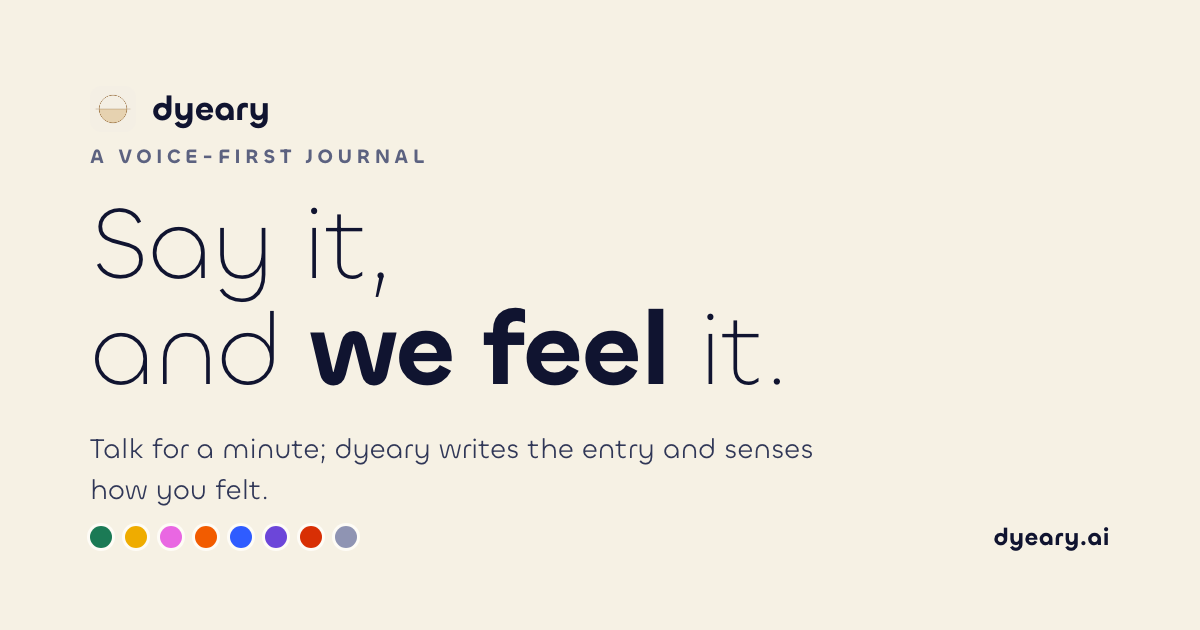
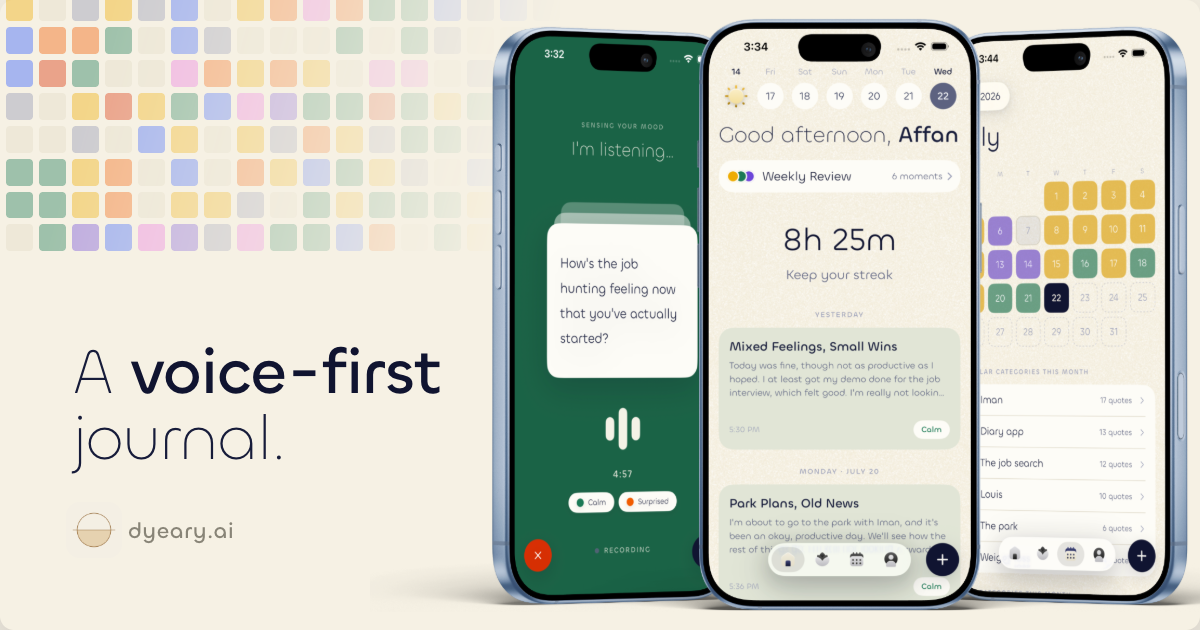
feat(site): new social share card — 3-phone product hero
Replace the text-only OG image with the redesigned Link Preview card
(year-in-feeling mood grid, "A voice-first journal.", three app screens,
dyeary.ai). Rendered at 1200x630 from the Claude Design project and
flattened onto --paper1 so the rounded corners don't render as notches
on social clients. Cache-bust og:image/twitter:image to ?v=2 and refresh
the alt text; og.source.html now documents the design-project source.

Claude-Session: https://claude.ai/code/session_01GrdvFf1rZhDVSoXyo1VgjL

diff --git a/og.source.html b/og.source.html
@@ -1,69 +1,35 @@
 <!doctype html>
-<html>
-<head>
-<meta charset="utf-8">
-<style>
-  @font-face {
-    font-family: "Chillax";
-    src: url("assets/Chillax-Variable.ttf") format("truetype");
-    font-weight: 200 700; font-style: normal; font-display: block;
-  }
-  :root {
-    --paper1:#F6F1E4; --paper0:#FEFCF6; --ink900:#101430; --ink700:#303757; --ink500:#5C6280; --hairline:#CFC9B8;
-    --m-joy:#EFAC00; --m-surprise:#F25C00; --m-anger:#D82F04; --m-love:#E967E2;
-    --m-sad:#2F5CFF; --m-calm:#1B7A55; --m-fear:#6C46D9; --m-tired:#8F94B3;
-  }
-  * { box-sizing: border-box; margin: 0; padding: 0; }
-  html, body { width: 1200px; height: 630px; }
-  .card {
-    position: relative; width: 1200px; height: 630px; overflow: hidden;
-    background: var(--paper1);
-    font-family: "Chillax", -apple-system, system-ui, sans-serif;
-    -webkit-font-smoothing: antialiased;
-    padding: 76px 90px; display: flex; flex-direction: column; justify-content: space-between;
-  }
-  .grain { position: absolute; inset: 0; pointer-events: none;
-    background: url("assets/grain.png") repeat; background-size: 128px 128px;
-    mix-blend-mode: overlay; opacity: .38; }
-  .card > * { position: relative; z-index: 1; }
+<!--
+  SOURCE OF assets/og.png (the social share / link-preview card).
 
-  .brand { display: flex; align-items: center; gap: 16px; }
-  .brand img { width: 46px; height: 46px; border-radius: 12px; display: block; }
-  .brand .name { font-size: 34px; font-weight: 600; letter-spacing: -0.01em; color: var(--ink900); }
+  As of 2026-07-22 this asset is NO LONGER generated from this file. It is
+  designed and rendered in the Claude Design project:
 
-  .mid { }
-  .eyebrow { font-size: 20px; font-weight: 600; letter-spacing: 0.22em; text-transform: uppercase; color: var(--ink500); }
-  h1 { margin-top: 20px; font-size: 104px; line-height: 1.02; letter-spacing: -0.02em; font-weight: 300; color: var(--ink900); }
-  h1 b { font-weight: 600; }
-  .sub { margin-top: 26px; font-size: 28px; font-weight: 400; line-height: 1.45; color: var(--ink700); max-width: 760px; }
+    Project : "social media assets for dyeary"
+    File    : Link Preview.dc.html
+    Project id : a324cf7c-621f-4443-a239-8ba22aeb0eba
+    URL     : https://claude.ai/design/p/a324cf7c-621f-4443-a239-8ba22aeb0eba?file=Link+Preview.dc.html
 
-  .foot { display: flex; align-items: center; justify-content: space-between; }
-  .moods { display: flex; gap: 13px; }
-  .moods i { width: 22px; height: 22px; border-radius: 999px; display: block; box-shadow: 0 0 0 3px var(--paper0); }
-  .url { font-size: 24px; font-weight: 600; letter-spacing: 0.01em; color: var(--ink900); }
-</style>
-</head>
-<body>
-  <div class="card">
-    <div class="grain"></div>
-    <div class="brand">
-      <img src="logo.png" alt="">
-      <span class="name">dyeary</span>
-    </div>
-    <div class="mid">
-      <div class="eyebrow">A voice-first journal</div>
-      <h1>Say it, and&nbsp;<b>we&nbsp;feel</b>&nbsp;it.</h1>
-      <div class="sub">Talk for a minute; dyeary writes the entry and senses how you felt.</div>
-    </div>
-    <div class="foot">
-      <div class="moods">
-        <i style="background:var(--m-calm)"></i><i style="background:var(--m-joy)"></i>
-        <i style="background:var(--m-love)"></i><i style="background:var(--m-surprise)"></i>
-        <i style="background:var(--m-sad)"></i><i style="background:var(--m-fear)"></i>
-        <i style="background:var(--m-anger)"></i><i style="background:var(--m-tired)"></i>
-      </div>
-      <div class="url">dyeary.ai</div>
-    </div>
-  </div>
-</body>
-</html>
+  The card = a faded "year-in-feeling" mood grid, the headline
+  "A voice-first journal.", the dyeary.ai logo, and a 3-phone product hero
+  (recording / home / calendar).
+
+  To regenerate assets/og.png:
+    1. Edit the card in the design project above.
+    2. Export the 1200x630 PNG (a 2400x1260 @2x export also exists).
+    3. Flatten the 14px rounded/transparent corners onto the paper colour so
+       social clients don't render them as black/white notches, then save as
+       assets/og.png (RGB, no alpha):
+
+         from PIL import Image
+         im = Image.open("dyeary-og-1200x630.png").convert("RGBA")
+         bg = Image.new("RGB", im.size, (0xF6, 0xF1, 0xE4))   # --paper1
+         bg.paste(im, mask=im.split()[3])
+         bg.save("assets/og.png", "PNG", optimize=True)
+
+    4. Bump the ?v=N cache-bust on og:image / twitter:image in index.html so
+       scrapers refetch instead of serving the cached previous card.
+
+  The previous purely-typographic card was generated from the HTML that used
+  to live in this file; see git history if you need it.
+-->

diff --git a/index.html b/index.html
@@ -14,15 +14,15 @@
 <meta property="og:site_name" content="dyeary">
 <meta property="og:title" content="dyeary · say it, and we feel it">
 <meta property="og:description" content="A voice-first journal. Talk for a minute; dyeary writes the entry and senses how you felt.">
-<meta property="og:image" content="https://dyeary.ai/assets/og.png">
+<meta property="og:image" content="https://dyeary.ai/assets/og.png?v=2">
 <meta property="og:image:width" content="1200">
 <meta property="og:image:height" content="630">
 <meta property="og:image:type" content="image/png">
-<meta property="og:image:alt" content="dyeary — a voice-first journal. Say it, and we feel it.">
+<meta property="og:image:alt" content="dyeary — a voice-first journal. Three app screens: a voice recording in progress, the home feed, and the mood calendar.">
 <meta name="twitter:card" content="summary_large_image">
 <meta name="twitter:title" content="dyeary · say it, and we feel it">
 <meta name="twitter:description" content="A voice-first journal. Talk for a minute; dyeary writes the entry and senses how you felt.">
-<meta name="twitter:image" content="https://dyeary.ai/assets/og.png">
+<meta name="twitter:image" content="https://dyeary.ai/assets/og.png?v=2">
 <link rel="icon" href="logo.png">
 
 <style>